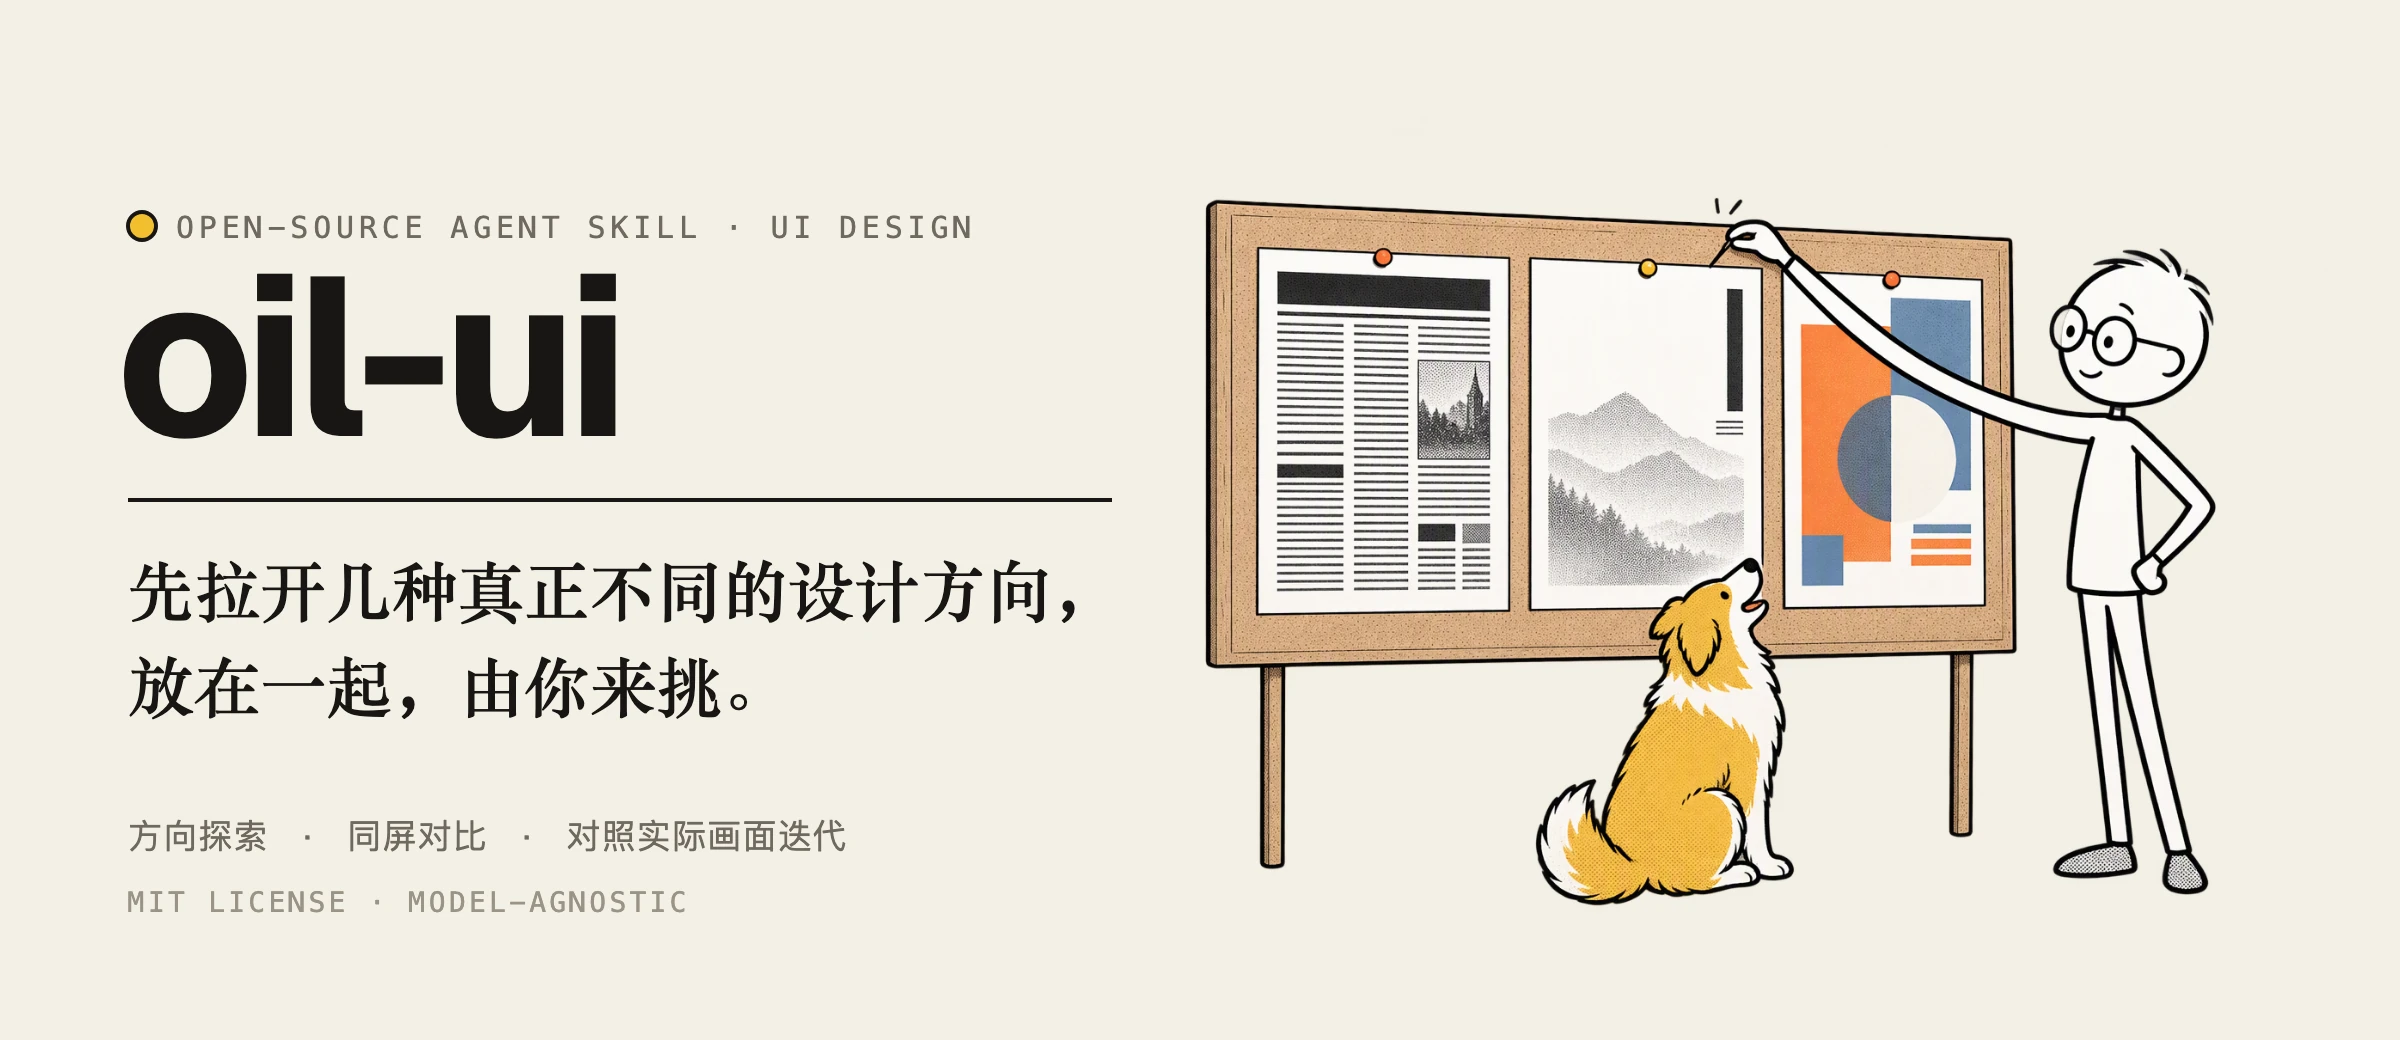
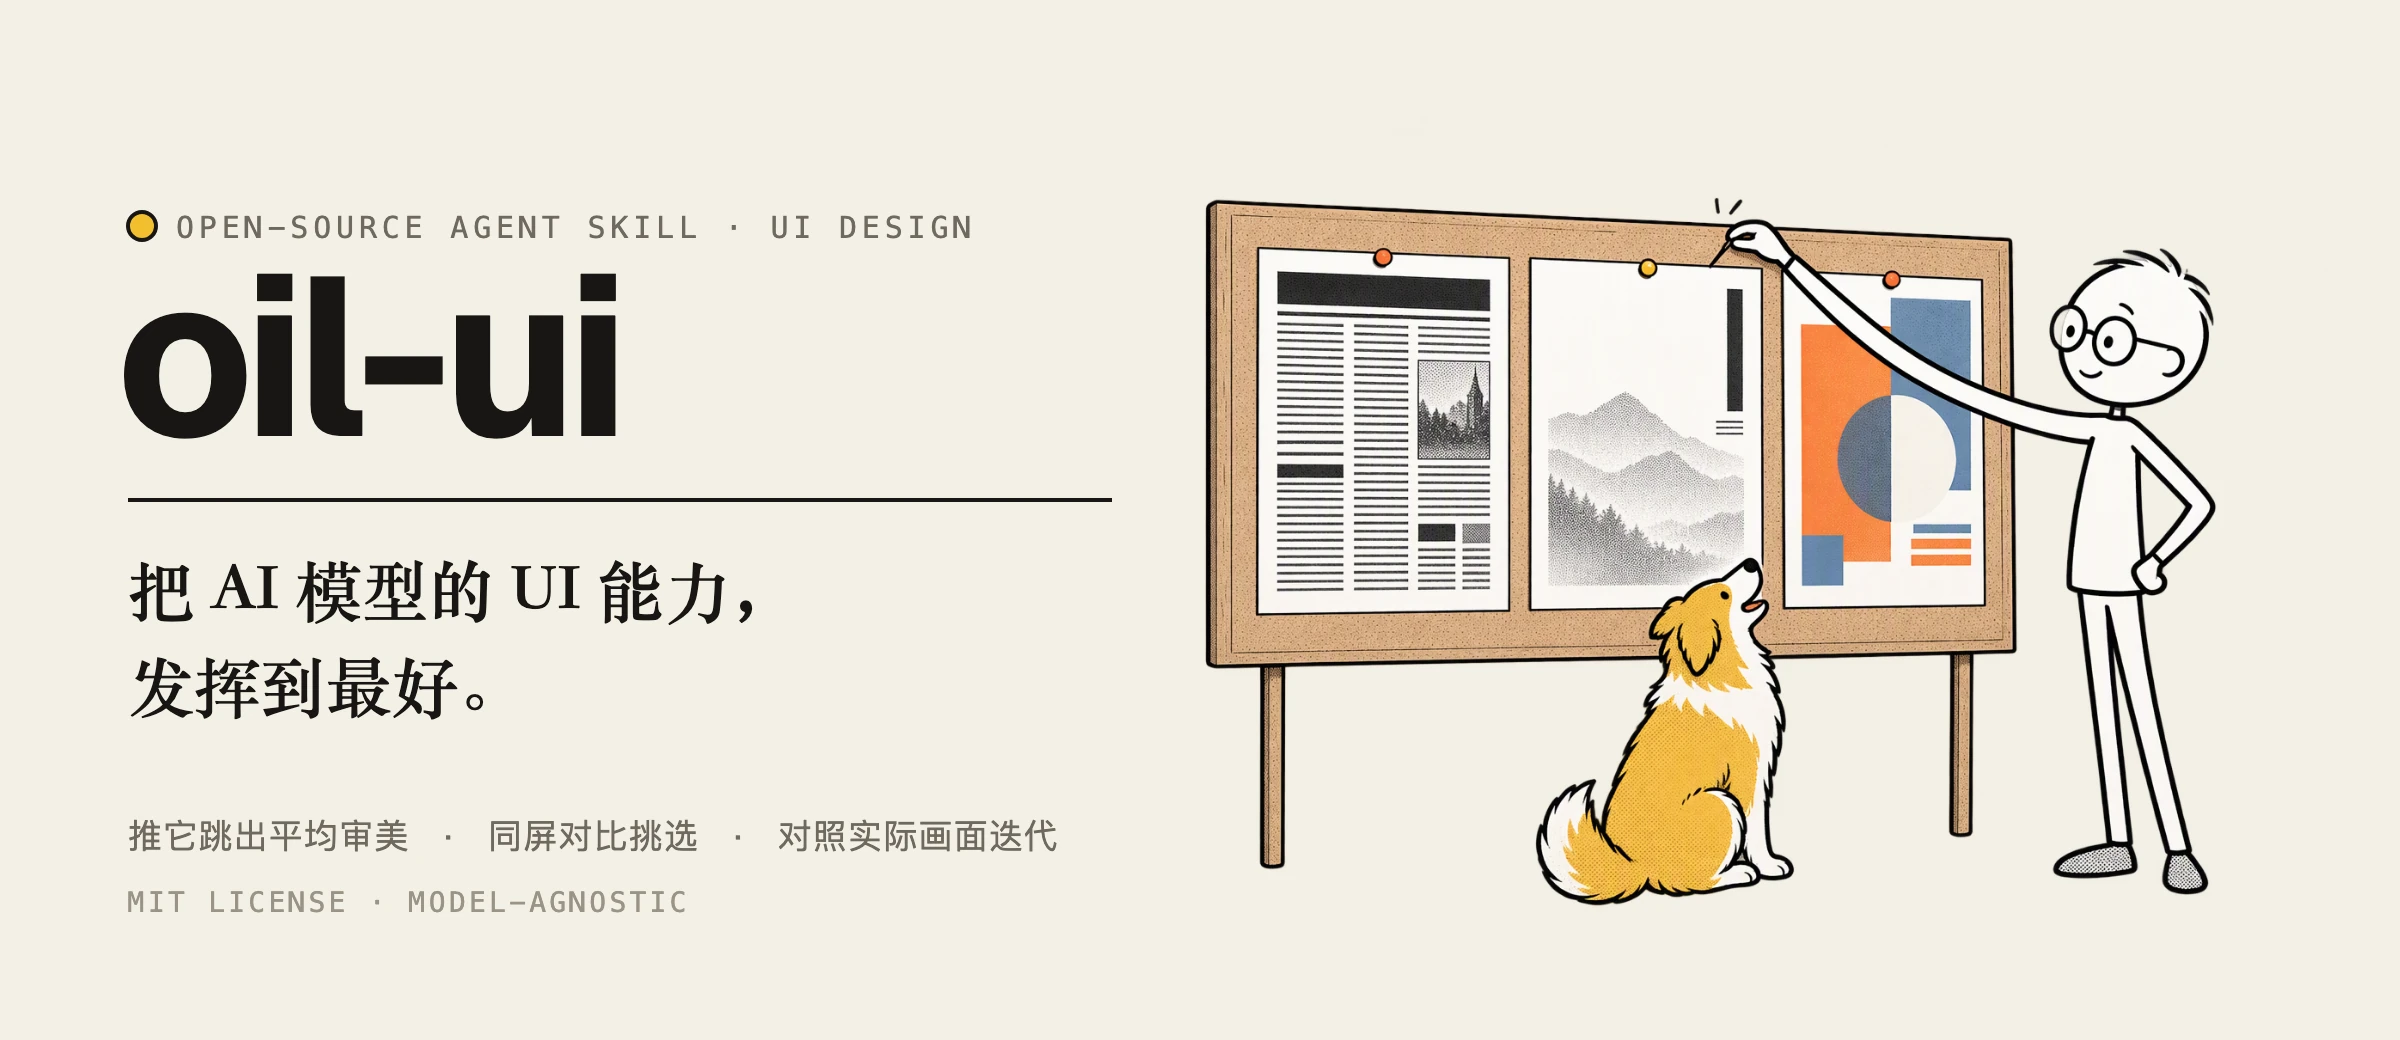
README：突出把 AI 模型的 UI 能力发挥到最好，新增“先看效果”展示墙

Changed region(s): [[0.0312, 0.5231, 0.4375, 0.7077], [0.0625, 0.7692, 0.4375, 0.8308]]

diff --git a/README.md b/README.md
@@ -1,18 +1,18 @@
 <p align="center">
-  <img src="./assets/readme/hero.webp" width="100%" alt="oil-ui：先拉开几种真正不同的设计方向，放在一起，由你来挑。插画里的人把黄色图钉按在三张风格不同的小样中间那张上">
+  <img src="./assets/readme/hero.webp" width="100%" alt="oil-ui：把 AI 模型的 UI 能力发挥到最好。插画里的人把黄色图钉按在三张风格不同的小样中间那张上">
 </p>
 
-让 AI 做界面，常见的问题是每次做出来都差不多：左边一个大标题，右边一张装在卡片里的截图，到处都是圆角。
+AI 模型其实很会做界面，只是没人推它一把的时候，它会给出最平均的答案：左边一个大标题，右边一张装在卡片里的截图，到处都是圆角。
 
-oil-ui 换了一种做法：先让 Agent 按你的产品气质做出几种风格差别很大的设计，放在同一个页面里给你比较。你挑中一种，它再把界面完整做出来，然后打开页面、截图，对照实际效果继续修改。
+oil-ui 要做的，是把模型的 UI 能力发挥到最好。它不给模型套模板，而是给它一套具体的推力：先从产品气质定调，再从一种材质、一个场景或一场设计运动出发，拉开几种真正不同的方向；你在同一个页面里对比、挑选，它再把选中的方向做成完整界面，打开页面、截图，对照实际效果继续修改。它不绑定某个模型，换一个 Agent 也能用。
 
 如果还需要用户流程、表单和状态、页面布局、配图和动效这些体验设计上的经验，或者希望评审和修改一直做到 9 分，可以[购买完整版 oil-ui-pro](https://skillpay.alipay.com/shelf/product?productId=P0806000207812874&merchantId=2088022260532460)。
 
 <p align="center">
-  <img src="./assets/readme/proof-mona-lisa.webp" width="100%" alt="风格对比页：同一个《蒙娜丽莎》特展页面的三种设计方向，分别是三十厘米、号外 1911 和晕涂">
+  <img src="./assets/readme/showcase.webp" width="100%" alt="先看效果：六个设计方向做成的完整页面局部，包括《蒙娜丽莎》特展的三十厘米、号外 1911、晕涂，以及梵高特展的致提奥、笔触、东窗">
 </p>
 
-<p align="center"><sub>同一个《蒙娜丽莎》特展页面的三种设计方向：三十厘米、号外 1911、晕涂，都由 Agent 按这个 Skill 的流程做出来。美术馆和展览是虚构的，画作是公有领域作品。</sub></p>
+<p align="center"><sub>《蒙娜丽莎》特展的三个方向（三十厘米、号外 1911、晕涂）用开源版 oil-ui 做成，梵高特展的三个方向（致提奥、笔触、东窗）用 oil-ui-pro 做成，每个方向都经过一轮独立评审和修改。美术馆和展览是虚构的，画作是公有领域作品。</sub></p>
 
 ## 它是怎么工作的
 
@@ -58,7 +58,11 @@ npx skills add oil-oil/oil-ui
 
 ## 自带的风格对比页
 
-上面那张图就是对比页。它能把几份设计并排放在一起，可以是单独的 HTML 文件、图片，也可以是你电脑上正在运行的开发页面。还能把现在的版本放在第一个，标成“现状”，方便对照。
+<p align="center">
+  <img src="./assets/readme/proof-mona-lisa.webp" width="100%" alt="风格对比页：同一个《蒙娜丽莎》特展页面的三种设计方向，分别是三十厘米、号外 1911 和晕涂">
+</p>
+
+上面就是对比页。它能把几份设计并排放在一起，可以是单独的 HTML 文件、图片，也可以是你电脑上正在运行的开发页面。还能把现在的版本放在第一个，标成“现状”，方便对照。
 
 你可以在电脑和手机两种尺寸之间切换，点开某一个看实际大小，用键盘左右切换。看中了就点“选择”，它会复制一句结果，粘贴给 Agent 就能接着做。
 
@@ -70,7 +74,7 @@ npx skills add oil-oil/oil-ui
   <img src="./assets/readme/proof-van-gogh.webp" width="100%" alt="完整版的风格对比页：梵高特展页面的三种设计方向，致提奥、笔触和东窗">
 </p>
 
-<p align="center"><sub>用完整版做的梵高特展页面：致提奥、笔触、东窗。美术馆和展览是虚构的，画作是公有领域作品。</sub></p>
+<p align="center"><sub>用 oil-ui-pro 做的梵高特展页面的对比页：致提奥、笔触、东窗。</sub></p>
 
 | | oil-ui | oil-ui-pro |
 | --- | :---: | :---: |
